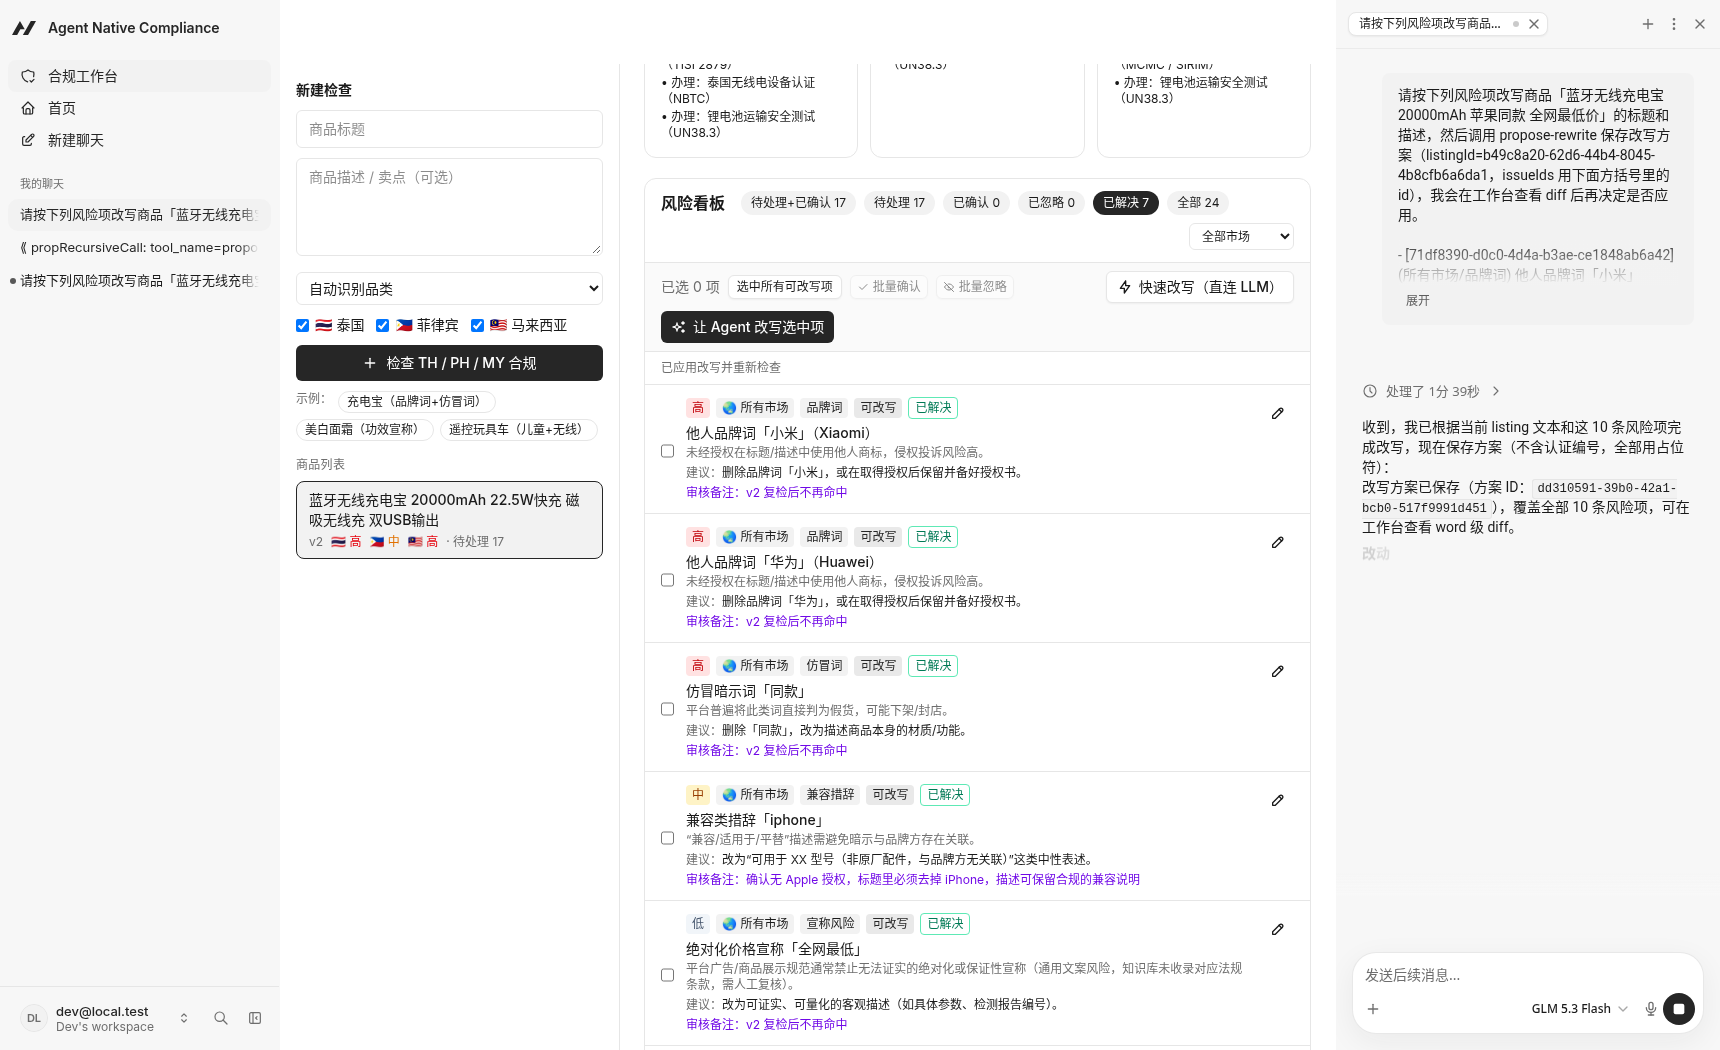
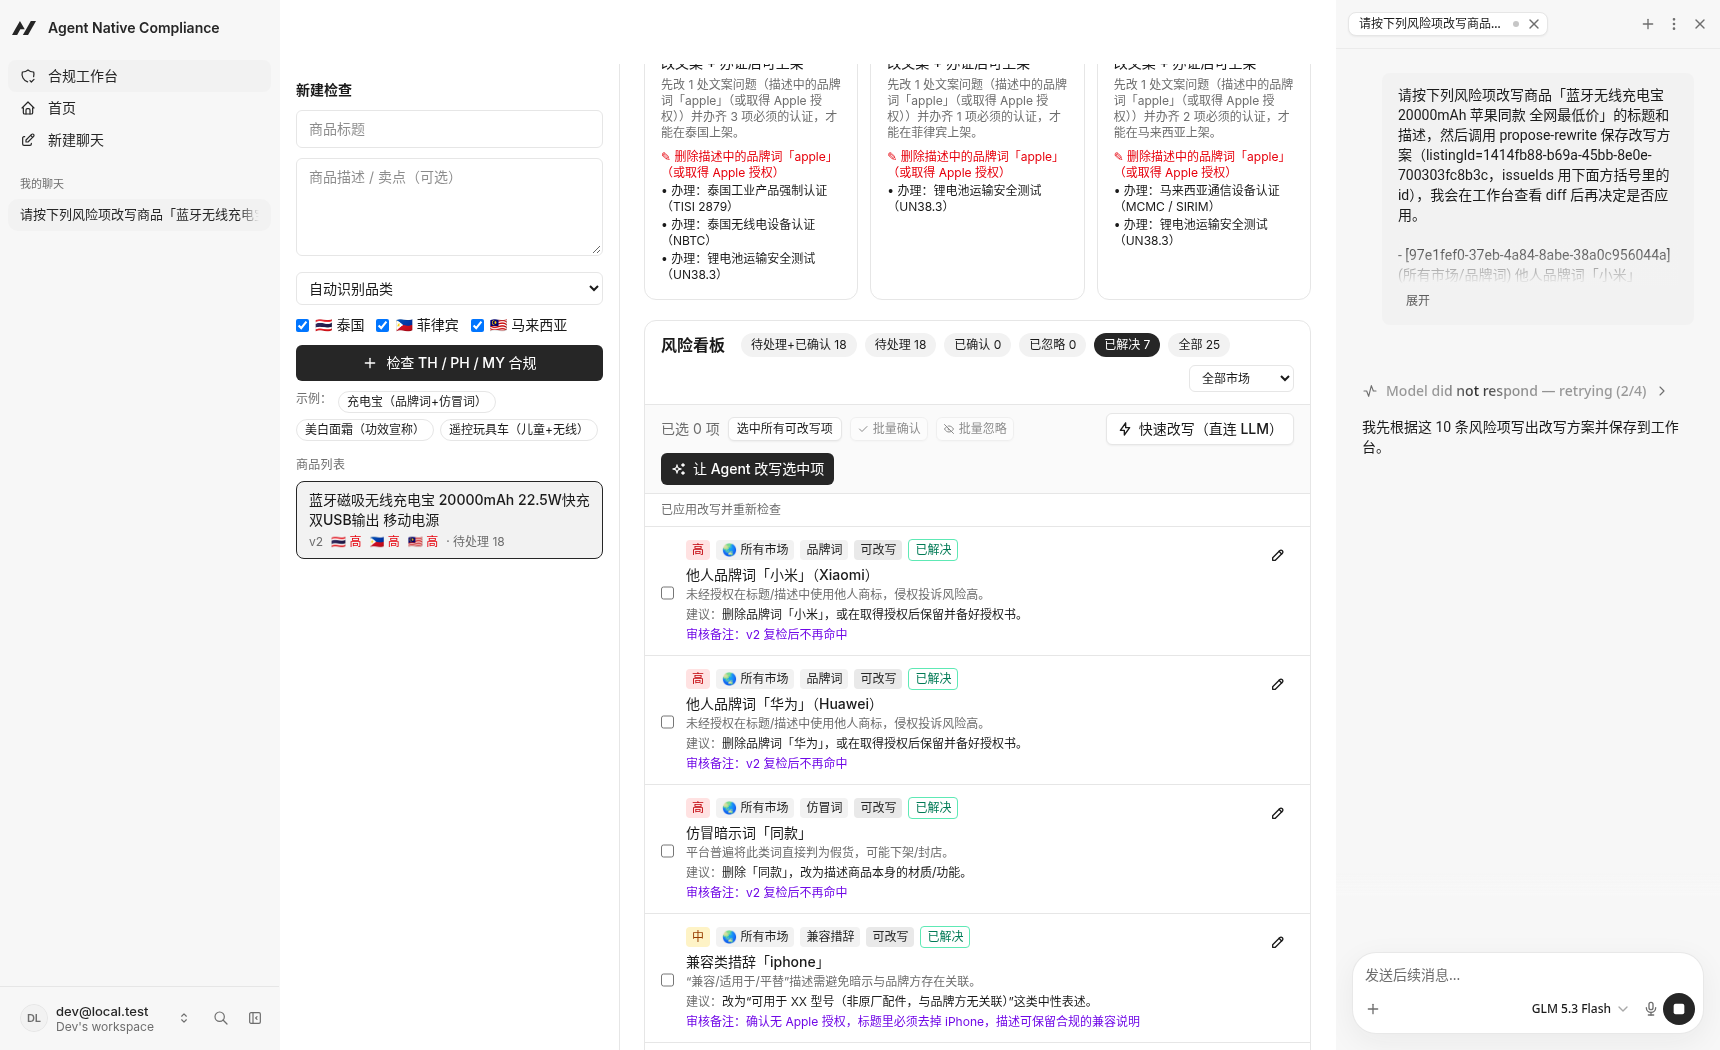
docs(screenshots): retake with new verdict cards + fast-lane shots (07c/07d/07e)

diff --git a/screenshots/09-exported-report.md b/screenshots/09-exported-report.md
@@ -1,16 +1,19 @@
-# 出海合规审查：蓝牙无线充电宝 20000mAh 22.5W快充 磁吸无线充 双USB输出
+# 出海合规审查：蓝牙磁吸无线充电宝 20000mAh 22.5W快充 双USB输出 移动电源
 
-版本 v2 · 知识库 2026.10.23-3 · 检查时间 2026-11-02T02:57:48.402Z
+版本 v2 · 知识库 2026.10.23-3 · 检查时间 2026-11-02T03:05:03.691Z
 
 ## 各市场结论
 
-- **泰国**：办证后可上架（风险 高）— 办齐 3 项必须的认证，才能在泰国上架。
+- **泰国**：改文案 + 办证后可上架（风险 高）— 先改 1 处文案问题（描述中的品牌词「apple」（或取得 Apple 授权））并办齐 3 项必须的认证，才能在泰国上架。
+  - [ ] 删除描述中的品牌词「apple」（或取得 Apple 授权）
   - [ ] 办理：泰国工业产品强制认证（TISI 2879）
   - [ ] 办理：泰国无线电设备认证（NBTC）
   - [ ] 办理：锂电池运输安全测试（UN38.3）
-- **菲律宾**：办证后可上架（风险 中）— 办齐 1 项必须的认证，才能在菲律宾上架。
+- **菲律宾**：改文案 + 办证后可上架（风险 高）— 先改 1 处文案问题（描述中的品牌词「apple」（或取得 Apple 授权））并办齐 1 项必须的认证，才能在菲律宾上架。
+  - [ ] 删除描述中的品牌词「apple」（或取得 Apple 授权）
   - [ ] 办理：锂电池运输安全测试（UN38.3）
-- **马来西亚**：办证后可上架（风险 高）— 办齐 2 项必须的认证，才能在马来西亚上架。
+- **马来西亚**：改文案 + 办证后可上架（风险 高）— 先改 1 处文案问题（描述中的品牌词「apple」（或取得 Apple 授权））并办齐 2 项必须的认证，才能在马来西亚上架。
+  - [ ] 删除描述中的品牌词「apple」（或取得 Apple 授权）
   - [ ] 办理：马来西亚通信设备认证（MCMC / SIRIM）
   - [ ] 办理：锂电池运输安全测试（UN38.3）
 
@@ -19,26 +22,27 @@
 | 市场 | 等级 | 状态 | 风险项 | 建议 | 依据 |
 |---|---|---|---|---|---|
 | 所有市场 | 高 | 已解决 | 他人品牌词「小米」（Xiaomi）<br>备注：v2 复检后不再命中 | 删除品牌词「小米」，或在取得授权后保留并备好授权书。 | 品牌/仿冒词检测 |
-| 泰国 | 高 | 待处理 | 泰国 TISI：移动电源（มอก. 2879-2560） | 核对新版 TIS 2879-2567 的生效/过渡日期；锂电池运输另需符合物流危险品要求 | [ASEAN ACCSQ – Thailand Updated Regulatory Regime (Revised matrix on mandatory standards, as of April 2025)](https://asean.org/wp-content/uploads/2026/03/TH_Updated-Regulatory-Regime_September-2025.pdf) |
+| 所有市场 | 高 | 待处理 | 他人品牌词「apple」（Apple） | 删除品牌词「apple」，或在取得授权后保留并备好授权书。 | 品牌/仿冒词检测 |
 | 所有市场 | 高 | 已解决 | 他人品牌词「华为」（Huawei）<br>备注：v2 复检后不再命中 | 删除品牌词「华为」，或在取得授权后保留并备好授权书。 | 品牌/仿冒词检测 |
-| 泰国 | 高 | 待处理 | 泰国 NBTC 无线电设备合规（蓝牙 / 无线充电） | 在 NBTC 设备查询 https://anyregis.nbtc.go.th/rces/ 核对型号；此条来自第三方（CSA Group）解读，请以 NBTC 原文为准 | [CSA Group – Thailand (NBTC) regulations for selling radio communication equipment](https://www.csagroup.org/global-certification-regulatory-update/thailand-nbtc-regulations-for-selling-radio-communication-equipment-as-per-act-b-e-2498/) |
+| 泰国 | 高 | 待处理 | 泰国 TISI：移动电源（มอก. 2879-2560） | 核对新版 TIS 2879-2567 的生效/过渡日期；锂电池运输另需符合物流危险品要求 | [ASEAN ACCSQ – Thailand Updated Regulatory Regime (Revised matrix on mandatory standards, as of April 2025)](https://asean.org/wp-content/uploads/2026/03/TH_Updated-Regulatory-Regime_September-2025.pdf) |
 | 所有市场 | 高 | 已解决 | 仿冒暗示词「同款」<br>备注：v2 复检后不再命中 | 删除「同款」，改为描述商品本身的材质/功能。 | 品牌/仿冒词检测 |
+| 泰国 | 高 | 待处理 | 泰国 NBTC 无线电设备合规（蓝牙 / 无线充电） | 在 NBTC 设备查询 https://anyregis.nbtc.go.th/rces/ 核对型号；此条来自第三方（CSA Group）解读，请以 NBTC 原文为准 | [CSA Group – Thailand (NBTC) regulations for selling radio communication equipment](https://www.csagroup.org/global-certification-regulatory-update/thailand-nbtc-regulations-for-selling-radio-communication-equipment-as-per-act-b-e-2498/) |
 | 所有市场 | 高 | 待处理 | 内置/配套锂电池：UN38.3 测试与测试摘要（运输必备） | 向电芯/电池供应商索取对应型号的 UN38.3 测试报告与测试摘要；在标签/规格中标明电池容量（Wh = V × Ah） | [IATA – Battery Guidance Document: Transport of Lithium Metal, Lithium Ion and Sodium Ion Batteries (Revised for the 2026 Regulations)](https://www.iata.org/contentassets/05e6d8742b0047259bf3a700bc9d42b9/lithium-battery-guidance-document.pdf) |
 | 马来西亚 | 高 | 待处理 | 马来西亚 MCMC 通信设备认证（SIRIM）与 MCMC 标签（蓝牙 / 无线充电） | 通过 SIRIM QAS 办理认证；listing 填写 MCMC 注册号 / SIRIM CoC 号 | [MCMC – Guidelines for Online Shopping Platform, Merchant and Consumer in E-Commerce for Communications Equipment](https://www.mcmc.gov.my/skmmgovmy/media/General/pdf2/Guidelines-for-Online-Shopping-Platform-Merchant-and-Consumer-in-Electronic-Commerce-for-Communications-Equipment.pdf) |
 | 泰国 | 中 | 待处理 | 泰国 ETDA 电商平台新规：listing 须展示 TISI/FDA 合规证明 | 在 listing 描述中补充该要求对应的信息（如认证编号、当地语言标签说明），真实编号由卖家填写。参考：在主图/详情图中展示 TISI 标志+许可证号（或 FDA 通报号）与泰文标签；在描述中填写许可证号与卖家/制造商联系方式 | [ETDA ข่าวประชาสัมพันธ์ – ประกาศ กพธ. มาตรา 18 (2) ตลาดสินค้าออนไลน์](https://www.etda.or.th/th/pr-news/announce_dpslaw18.aspx) |
 | 菲律宾 | 中 | 待处理 | 菲律宾《互联网交易法》RA 11967：管制商品须提供许可信息 | 在 listing 描述中补充该要求对应的信息（如认证编号、当地语言标签说明），真实编号由卖家填写。参考：在 listing 中填写 PS/ICC、FDA CPN/TCCA 等许可号 | [Republic Act No. 11967 – Internet Transactions Act of 2023](https://lawphil.net/statutes/repacts/ra2023/ra_11967_2023.html) |
-| 马来西亚 | 中 | 待处理 | 马来西亚电商交易规例修订（CPETTR 2024） | 在 listing 描述中补充该要求对应的信息（如认证编号、当地语言标签说明），真实编号由卖家填写。参考：核对 KPDN 最新公告 | [Shopee MY Seller Education – CPETTR 2024 (页面需 JS，未能抓取全文)](https://seller.shopee.com.my/edu/article/25285) |
 | 所有市场 | 中 | 已解决 | 兼容类措辞「iphone」<br>备注：确认无 Apple 授权，标题里必须去掉 iPhone，描述可保留合规的兼容说明 | 改为“可用于 XX 型号（非原厂配件，与品牌方无关联）”这类中性表述。 | 品牌/仿冒词检测 |
+| 马来西亚 | 中 | 待处理 | 马来西亚电商交易规例修订（CPETTR 2024） | 在 listing 描述中补充该要求对应的信息（如认证编号、当地语言标签说明），真实编号由卖家填写。参考：核对 KPDN 最新公告 | [Shopee MY Seller Education – CPETTR 2024 (页面需 JS，未能抓取全文)](https://seller.shopee.com.my/edu/article/25285) |
 | 菲律宾 | 中 | 待处理 | 菲律宾 NTC 无线电设备型式认可（蓝牙 / 无线充电） | 该通告为 2003 年发布，请向 NTC 确认现行型式认可程序 | [NTC Memorandum Circular No. 09-09-2003 – Wireless Data Networks and Devices](https://region7.ntc.gov.ph/wp-content/uploads/2024/01/MC_09-09-2003.pdf) |
 | 所有市场 | 低 | 待处理 | TikTok Shop：禁止假冒及侵犯知识产权商品 | 如使用品牌词，准备品牌授权书；侵权投诉入口：https://ippc.tiktokglobalshop.com/ | [TikTok Shop by Tokopedia – Prohibited Products Guidelines（印尼站版本，泰/菲/马站需在各自 Seller University 核对）](https://seller-id.tokopedia.com/university/essay?knowledge_id=10000846&lang=en) |
 | 所有市场 | 低 | 待处理 | Shopee：禁止假冒/仿冒及侵权商品 | 在 Shopee 卖家中心核对对应站点的禁限售清单 | [Shopee PH Seller Education – Prohibited & restricted items（页面需 JS，未能抓取）](https://seller.shopee.ph/edu/article/698) |
 | 所有市场 | 低 | 待处理 | Lazada：禁止假冒/仿冒及侵权商品 | 在 Lazada 卖家中心核对对应站点的禁限售清单 | [Lazada – Prohibited and Controlled Products Policy（页面需 JS，未能抓取）](https://gsp.lazada.com/gsp/helpcenter/prohibited-and-controlled-products-policy-9600.html) |
-| 所有市场 | 低 | 待处理 | 充电宝按“锂电池”本身运输（UN 3480），空运须 ≤30% 电量 | 发货前向物流商确认是否接收纯电池（UN 3480）货物及对应渠道；出货电量控制在 30% 以下 | [IATA – Battery Guidance Document: Transport of Lithium Metal, Lithium Ion and Sodium Ion Batteries (Revised for the 2026 Regulations)](https://www.iata.org/contentassets/05e6d8742b0047259bf3a700bc9d42b9/lithium-battery-guidance-document.pdf) |
 | 所有市场 | 低 | 已解决 | 绝对化价格宣称「全网最低」<br>备注：v2 复检后不再命中 | 改为可证实、可量化的客观描述（如具体参数、检测报告编号）。 | 通用文案风险 |
-| 所有市场 | 低 | 待处理 | 带电商品：物流商/平台渠道限制与 MSDS | 准备电池规格书、UN38.3 测试摘要，物流商要求时提供 MSDS；在卖家中心确认该站点带电商品的发货渠道 | [IATA – Battery Guidance Document: Transport of Lithium Metal, Lithium Ion and Sodium Ion Batteries (Revised for the 2026 Regulations)](https://www.iata.org/contentassets/05e6d8742b0047259bf3a700bc9d42b9/lithium-battery-guidance-document.pdf) |
+| 所有市场 | 低 | 待处理 | 充电宝按“锂电池”本身运输（UN 3480），空运须 ≤30% 电量 | 发货前向物流商确认是否接收纯电池（UN 3480）货物及对应渠道；出货电量控制在 30% 以下 | [IATA – Battery Guidance Document: Transport of Lithium Metal, Lithium Ion and Sodium Ion Batteries (Revised for the 2026 Regulations)](https://www.iata.org/contentassets/05e6d8742b0047259bf3a700bc9d42b9/lithium-battery-guidance-document.pdf) |
 | 所有市场 | 低 | 已解决 | 无法证实的保证「100%安全」<br>备注：v2 复检后不再命中 | 改为可证实、可量化的客观描述（如具体参数、检测报告编号）。 | 通用文案风险 |
-| 菲律宾 | 低 | 待处理 | 菲律宾：充电器/移动电源未在 BPS 强制清单中找到 | 向 BPS 确认最新清单；延长线/插头类配件仍在强制清单内 | [DTI-BPS – List of Products Under Mandatory Certification](https://bps.dti.gov.ph/component/content/category/10-list-of-products-under-mandatory-certification) |
+| 所有市场 | 低 | 待处理 | 带电商品：物流商/平台渠道限制与 MSDS | 准备电池规格书、UN38.3 测试摘要，物流商要求时提供 MSDS；在卖家中心确认该站点带电商品的发货渠道 | [IATA – Battery Guidance Document: Transport of Lithium Metal, Lithium Ion and Sodium Ion Batteries (Revised for the 2026 Regulations)](https://www.iata.org/contentassets/05e6d8742b0047259bf3a700bc9d42b9/lithium-battery-guidance-document.pdf) |
 | 所有市场 | 低 | 已解决 | 无法证实的安全/寿命宣称「无副作用」<br>备注：v2 复检后不再命中 | 改为可证实、可量化的客观描述（如具体参数、检测报告编号）。 | 通用文案风险 |
+| 菲律宾 | 低 | 待处理 | 菲律宾：充电器/移动电源未在 BPS 强制清单中找到 | 向 BPS 确认最新清单；延长线/插头类配件仍在强制清单内 | [DTI-BPS – List of Products Under Mandatory Certification](https://bps.dti.gov.ph/component/content/category/10-list-of-products-under-mandatory-certification) |
 | 马来西亚 | 低 | 待处理 | 马来西亚：移动电源是否属 ST 管制需复核 | 向 ST 或 SIRIM QAS 确认移动电源归类 | [Suruhanjaya Tenaga – Regulated electrical equipment that requires CoA（扫描件 OCR）](https://www.st.gov.my/sites/default/files/2026-02/Regulated-Electrical-Equipments-that-requires-certificate-of-approval-%28COA%29.pdf) |
 | 马来西亚 | 低 | 待处理 | Shopee MY 禁限售清单（蓝牙 / 无线充电） | 在 Shopee MY 卖家中心核对 | [Shopee MY Seller Education – Prohibited & restricted items（页面需 JS，未能抓取）](https://seller.shopee.com.my/edu/article/614) |
 | 马来西亚 | 低 | 待处理 | 马来西亚低价值商品（LVG）销售税 10% | 定价时计入 LVG 税 | [Royal Malaysian Customs – LVG FAQ](https://mylvg.customs.gov.my/FAQ) |
